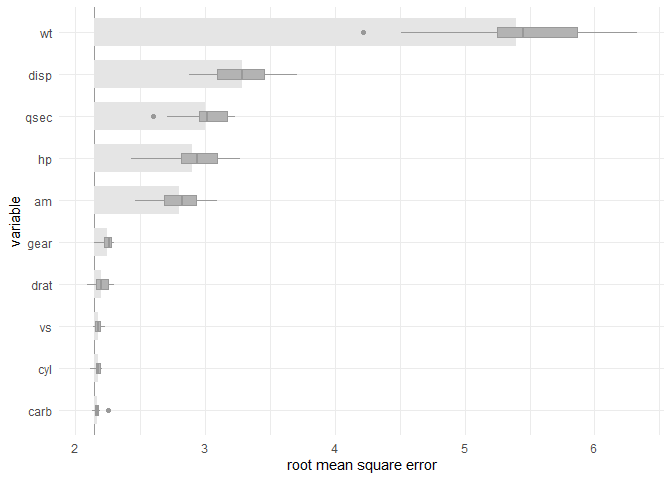
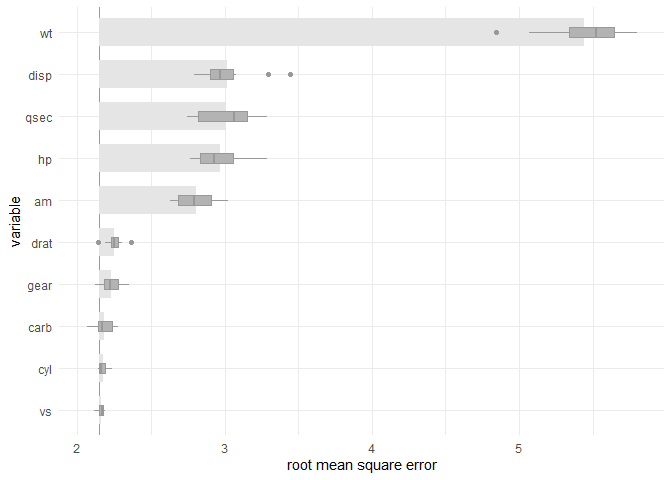
3rd commit :bug:

diff --git a/README.md b/README.md
@@ -54,6 +54,8 @@ library(celavi)
 
 lm_model <- lm(mpg ~ ., data = mtcars)
 
+set.seed(123)
+
 vi <- celavi::variable_importance(lm_model, data = mtcars, iterations = 10)
 #> ℹ Using all variables in data.
 #> ℹ Trying extract response name using `formula`.
